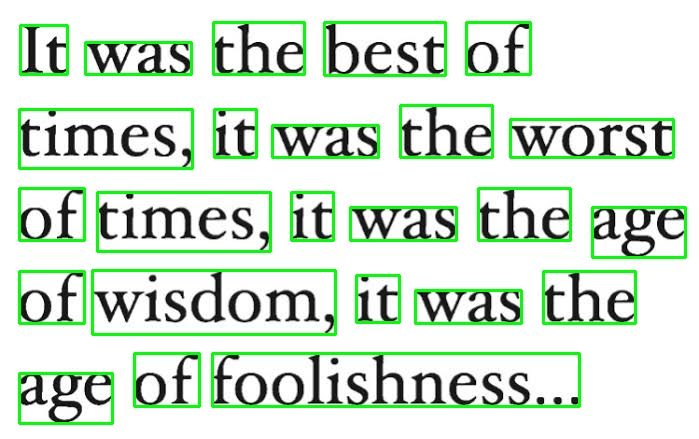
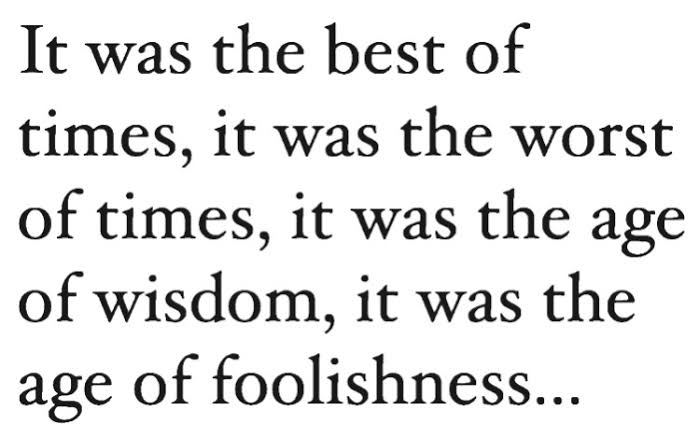
This is an Image to text Recognition prototype

diff --git a/AI_Image_text_recognition-piyush saini/main.py b/AI_Image_text_recognition-piyush saini/main.py
@@ -14,12 +14,12 @@ print("Image size:", image.shape)
 
 #apply grayscale 
 gray= cv2.cvtColor(image, cv2.COLOR_BGR2GRAY)
-cv2.imwrite("gray.jpg", gray)
+cv2.imwrite("output/gray.jpg", gray)
 print ("grayscale image created successfully")
 
 # Apply threshold 
 threshold = cv2.adaptiveThreshold (gray, 255,cv2.ADAPTIVE_THRESH_GAUSSIAN_C,cv2.THRESH_BINARY,31,11)
-cv2.imwrite("threshold.jpg", threshold)
+cv2.imwrite("output/threshold.jpg", threshold)
 print("Adaptive threshold image created Successfully")
 # Perform OCR
 text = pytesseract.image_to_string(threshold)
@@ -49,20 +49,8 @@ for i in range(len(data["text"])):
     word = data["text"][i].strip()
     confidence = float(data["conf"][i])
 
-    if word != "" and confidence >= 80:
-
-        x = data["left"][i]
-        y = data["top"][i]
-        w = data["width"][i]
-        h = data["height"][i]
-
-        cv2.rectangle(
-            annotated,
-            (x, y),
-            (x + w, y + h),
-            (0, 255, 0),
-            2
-        )
+    if word != "" and confidence >= 0:
+        confidences.append(confidence)
 
 # Save annotated image
 cv2.imwrite("output/annotated_output.png", annotated)
